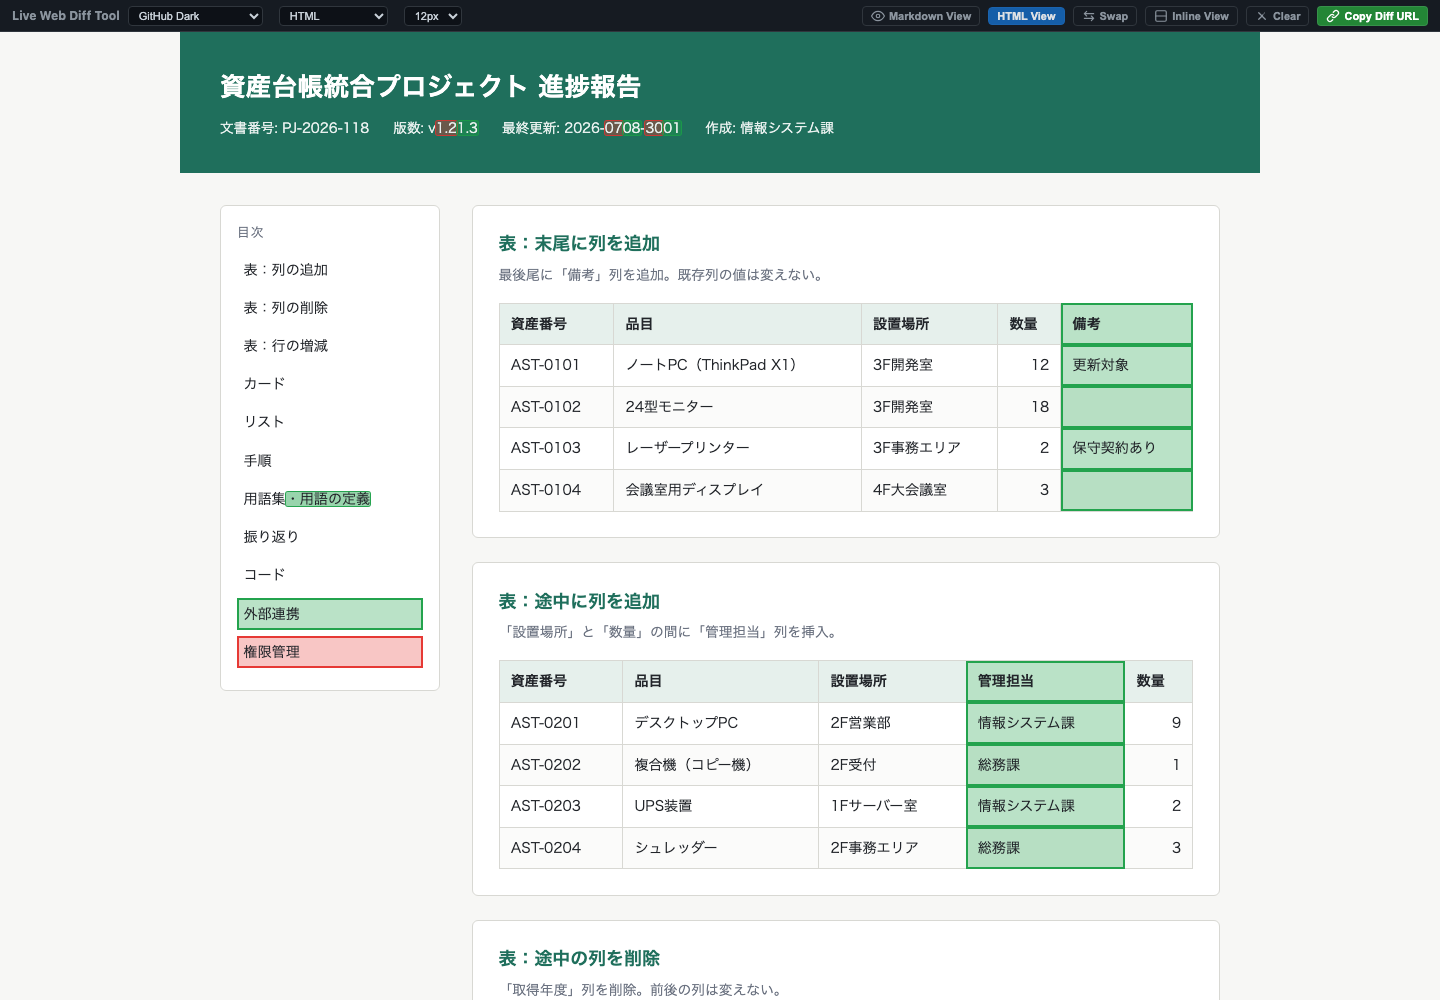
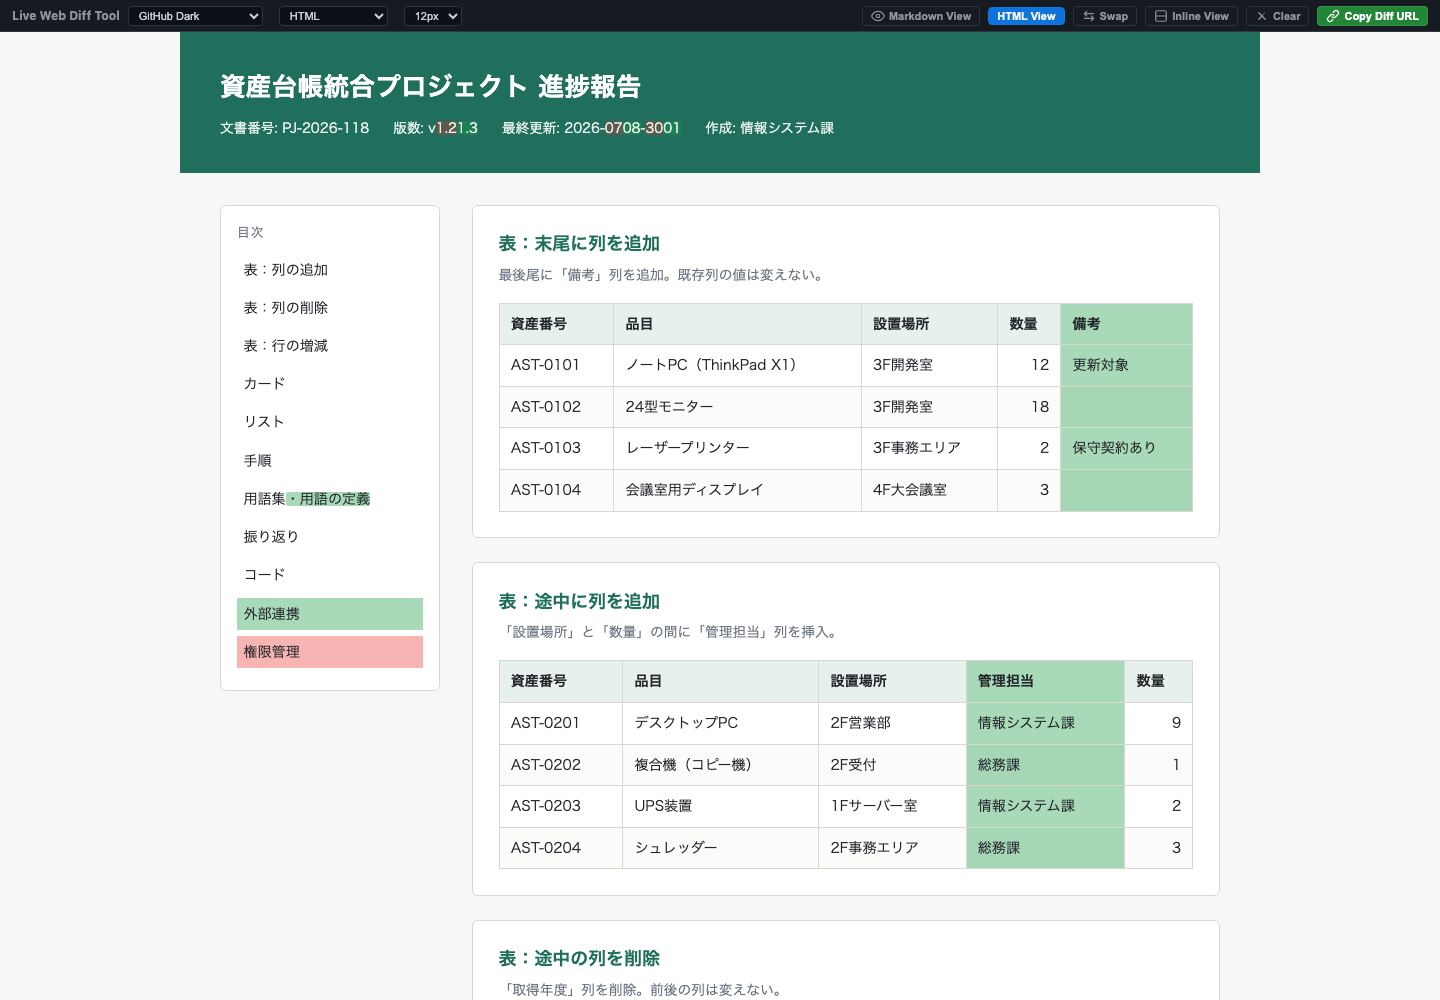
edit: drop the diff marker borders and level the fill strength
The 1px and 2px coloured borders around every marked element added a lot
of visual noise on a page that already has its own rules and boxes, and
on a marked table column they read as an extra grid.

Fills also differed by granularity - block markers sat at .30/.28 while
inline ones sat at .45/.42 - so the same edit looked like two different
things depending on how much of the page it covered. Both now use one
green and one red at a single strength.

Attribute and tag changes move from an unfilled outline to the same green
at .15, since removing the outline would otherwise leave them invisible.
Lighter than a real insertion, so an element that merely changed state
never reads as newly added.

diff --git a/index.html b/index.html
@@ -1189,26 +1189,18 @@
    削除ブロックだけ opacity:.75 でさらに褪せており、貼り付けたページ自体の
    淡い配色に埋もれて追加と削除を取り違えやすかった。 */
 ins[data-diff="ins"]{
-  background:rgba(26,159,71,.45); color:inherit; text-decoration:none;
-  border-radius:2px; box-shadow:0 0 0 1px rgba(26,159,71,.95);
+  background:rgba(26,159,71,.38); color:inherit; text-decoration:none; border-radius:2px;
 }
 del[data-diff="del"]{
-  background:rgba(229,50,45,.42); color:inherit; text-decoration:none;
-  border-radius:2px; box-shadow:0 0 0 1px rgba(229,50,45,.95);
+  background:rgba(229,50,45,.36); color:inherit; text-decoration:none; border-radius:2px;
 }
-[data-diff-block="ins"]{
-  background:rgba(26,159,71,.30) !important;
-  outline:2px solid rgba(26,159,71,.95); outline-offset:-2px;
-}
-[data-diff-block="del"]{
-  background:rgba(229,50,45,.28) !important;
-  outline:2px solid rgba(229,50,45,.95); outline-offset:-2px;
-}
+[data-diff-block="ins"]{ background:rgba(26,159,71,.38) !important; }
+[data-diff-block="del"]{ background:rgba(229,50,45,.36) !important; }
 td[data-diff-pad], th[data-diff-pad]{ background:transparent; }
 a[data-diff-nolink]{ cursor: default; }
 /* 属性やタグだけが変わった要素。新しい状態になったという意味で追加と同じ緑を使い、
-   塗りを付けないことで「丸ごと追加された」ものと区別する。 */
-[data-diff-attr]{ outline:2px solid rgba(26,159,71,.95); outline-offset:-2px; }
+   薄く塗ることで「丸ごと追加された」ものと区別する。 */
+[data-diff-attr]{ background:rgba(26,159,71,.15) !important; }
 #__diff_removed__{ margin-top:2rem; padding:1rem; }
 /* 差分のみ表示のときの目印。ブロックと属性は自前の緑/赤の枠を持っているので、
    ここで上書きしないよう data-diff-row（中に文字単位の変更がある要素）だけに絞る。 */

diff --git a/diff-testcases/README.md b/diff-testcases/README.md
@@ -42,17 +42,22 @@ was a real reported bug — and every surviving item's `href="#..."` must still 
 
 ## Colour scheme
 
-Only two hues are used, at every granularity, so a marker's meaning never depends on which part of
-the page it is on:
+Two hues, one strength, no borders — so a word-level insertion and a whole-column insertion are the
+same green, and a marker's meaning never depends on which part of the page it is on:
 
 | | Insertion | Deletion |
 |---|---|---|
-| Word / phrase (`ins` / `del`) | green fill `rgba(26,159,71,.45)` + 1px green border | red fill `rgba(229,50,45,.42)` + 1px red border |
-| Whole element (`data-diff-block`) | green fill `.30` + 2px green outline | red fill `.28` + 2px red outline |
-| Attribute or tag change (`data-diff-attr`) | 2px green outline, **no fill** | — |
+| Word / phrase (`ins` / `del`) | `rgba(26,159,71,.38)` | `rgba(229,50,45,.36)` |
+| Whole element (`data-diff-block`) | `rgba(26,159,71,.38)` | `rgba(229,50,45,.36)` |
+| Attribute or tag change (`data-diff-attr`) | `rgba(26,159,71,.15)` | — |
+
+An attribute or tag change is the same green at a lighter weight: the element is in its new state,
+but it was not added, so it must not read as strongly as a real insertion.
 
 Deleted content is drawn at full opacity. It used to be dimmed to 75% on top of a 12%-alpha tint,
 which on a page with its own pale palette made deletions read as unmarked — or worse, as insertions.
+The block markers previously carried a heavier fill-plus-outline treatment than inline ones, so the
+same edit looked like two different things depending on its size.
 
 ## Invariants checked across the whole document
 
